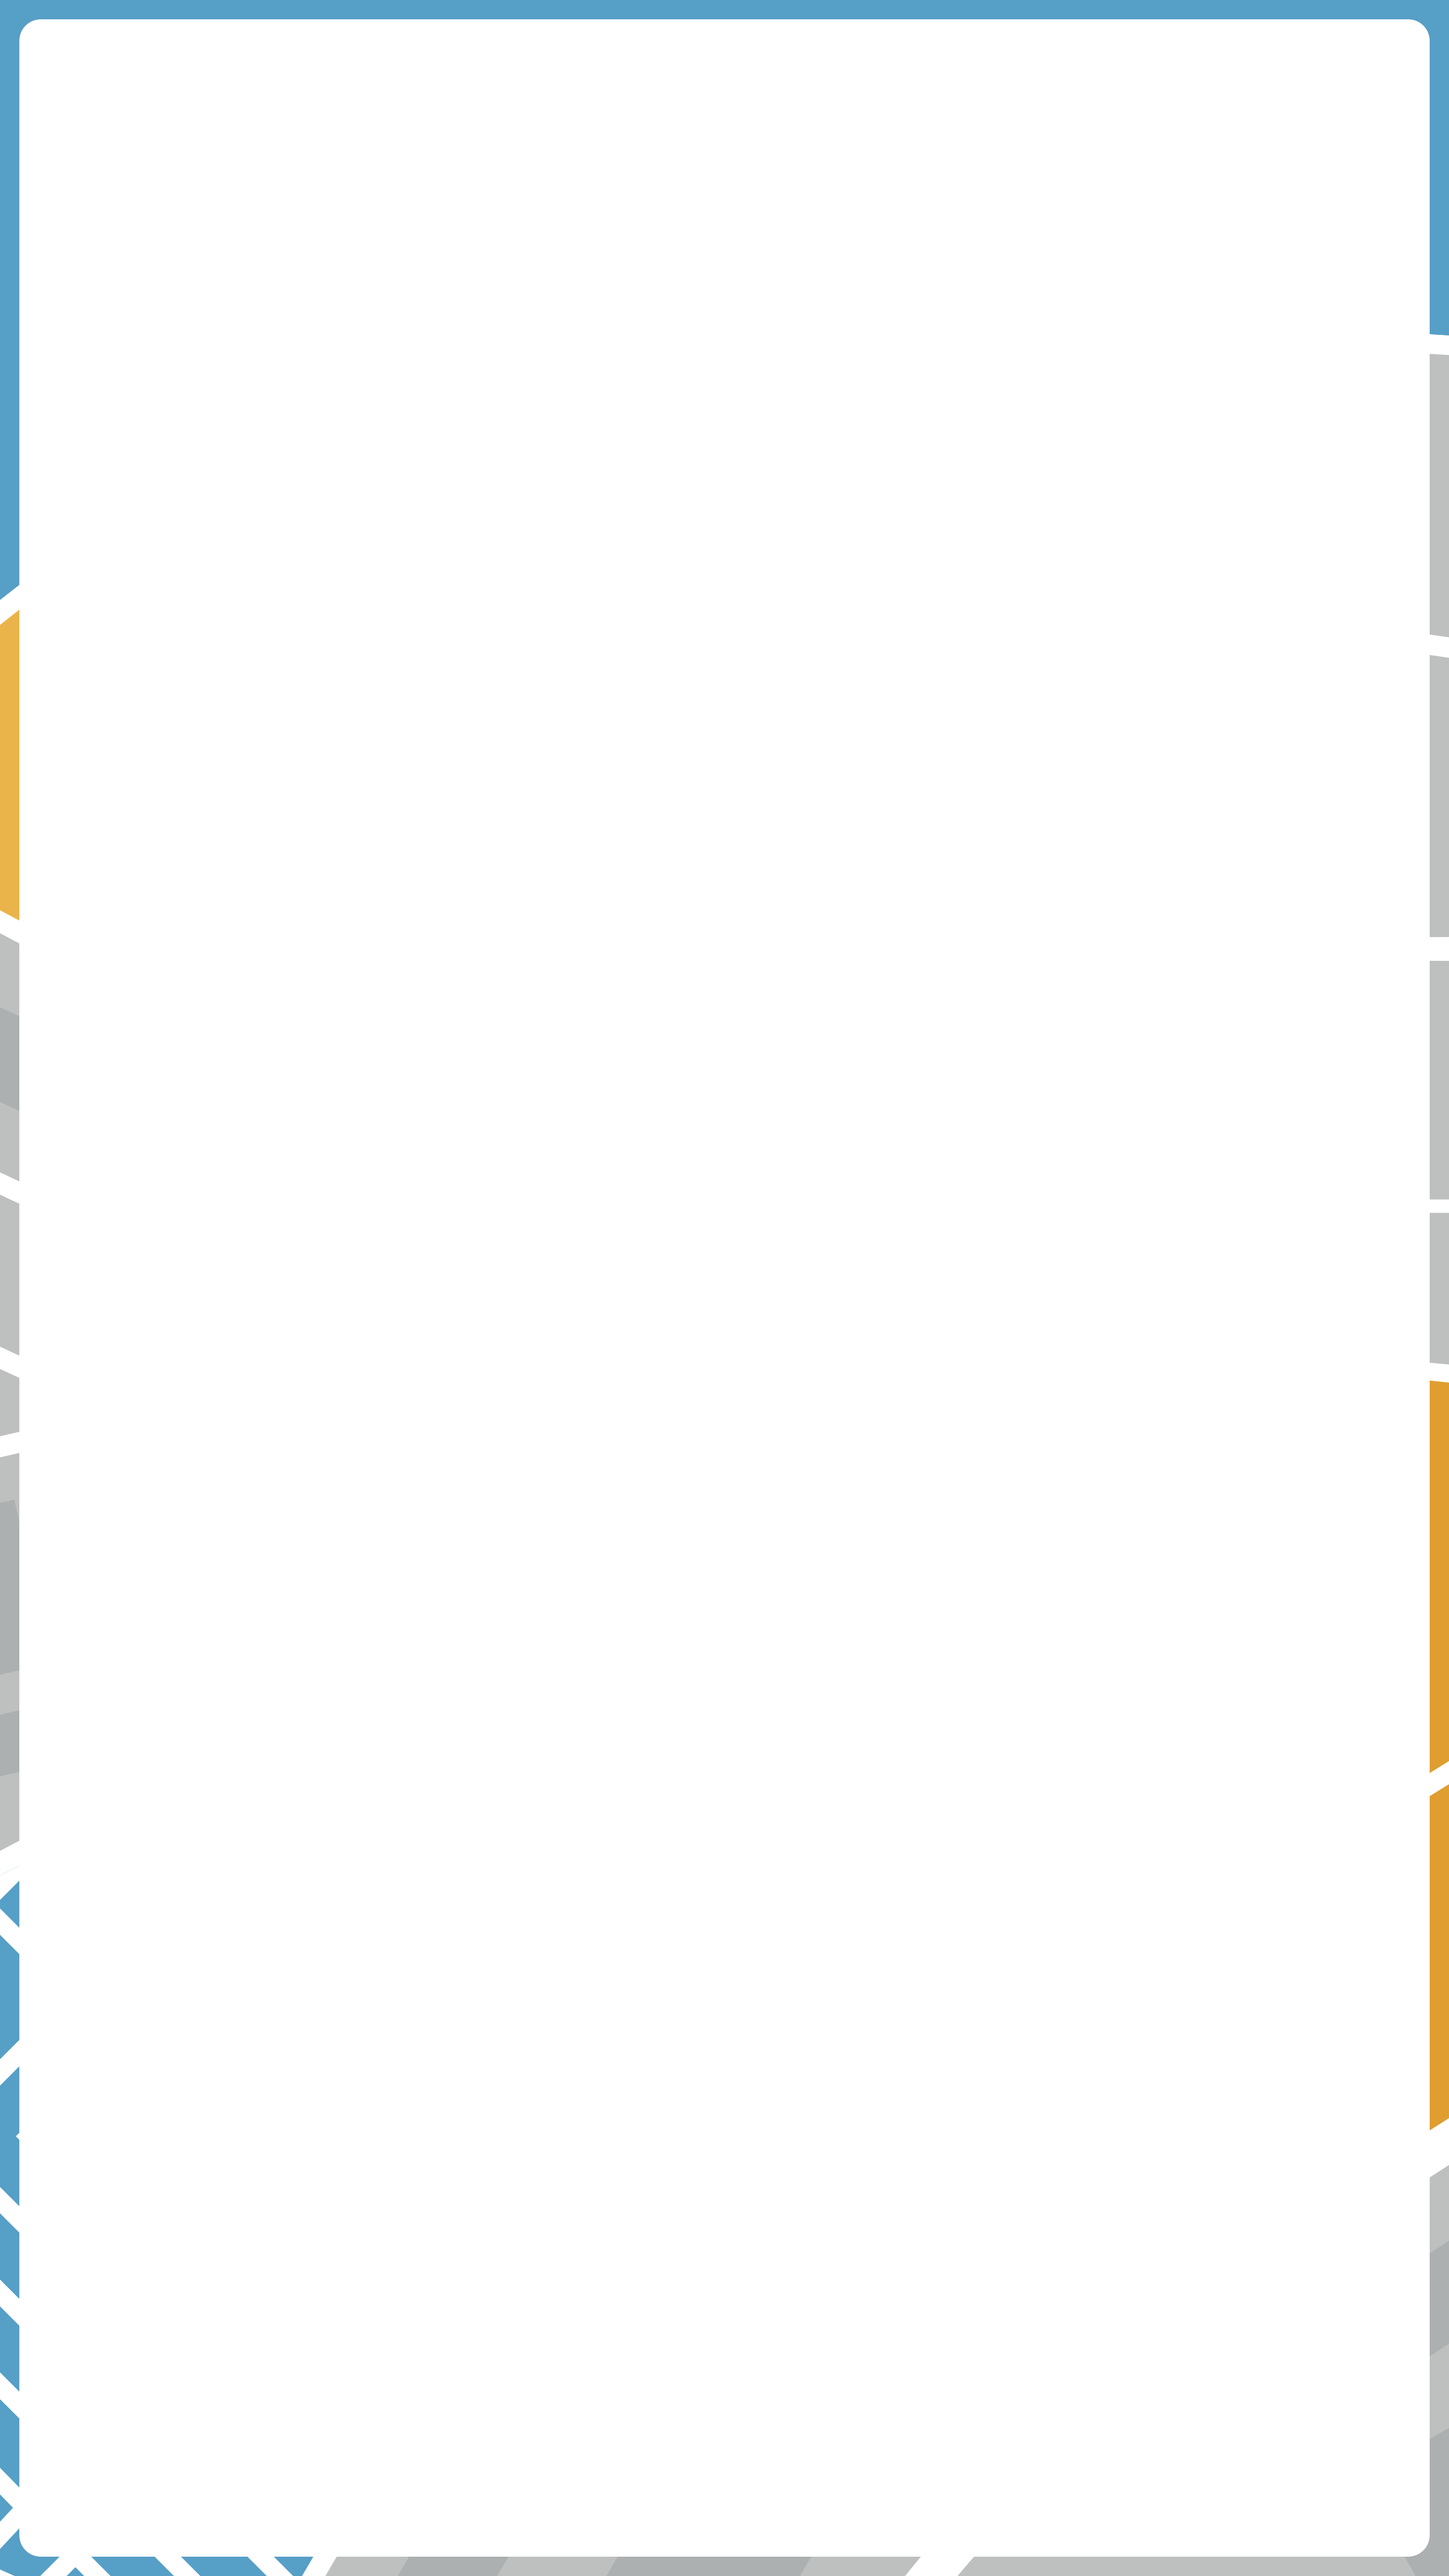
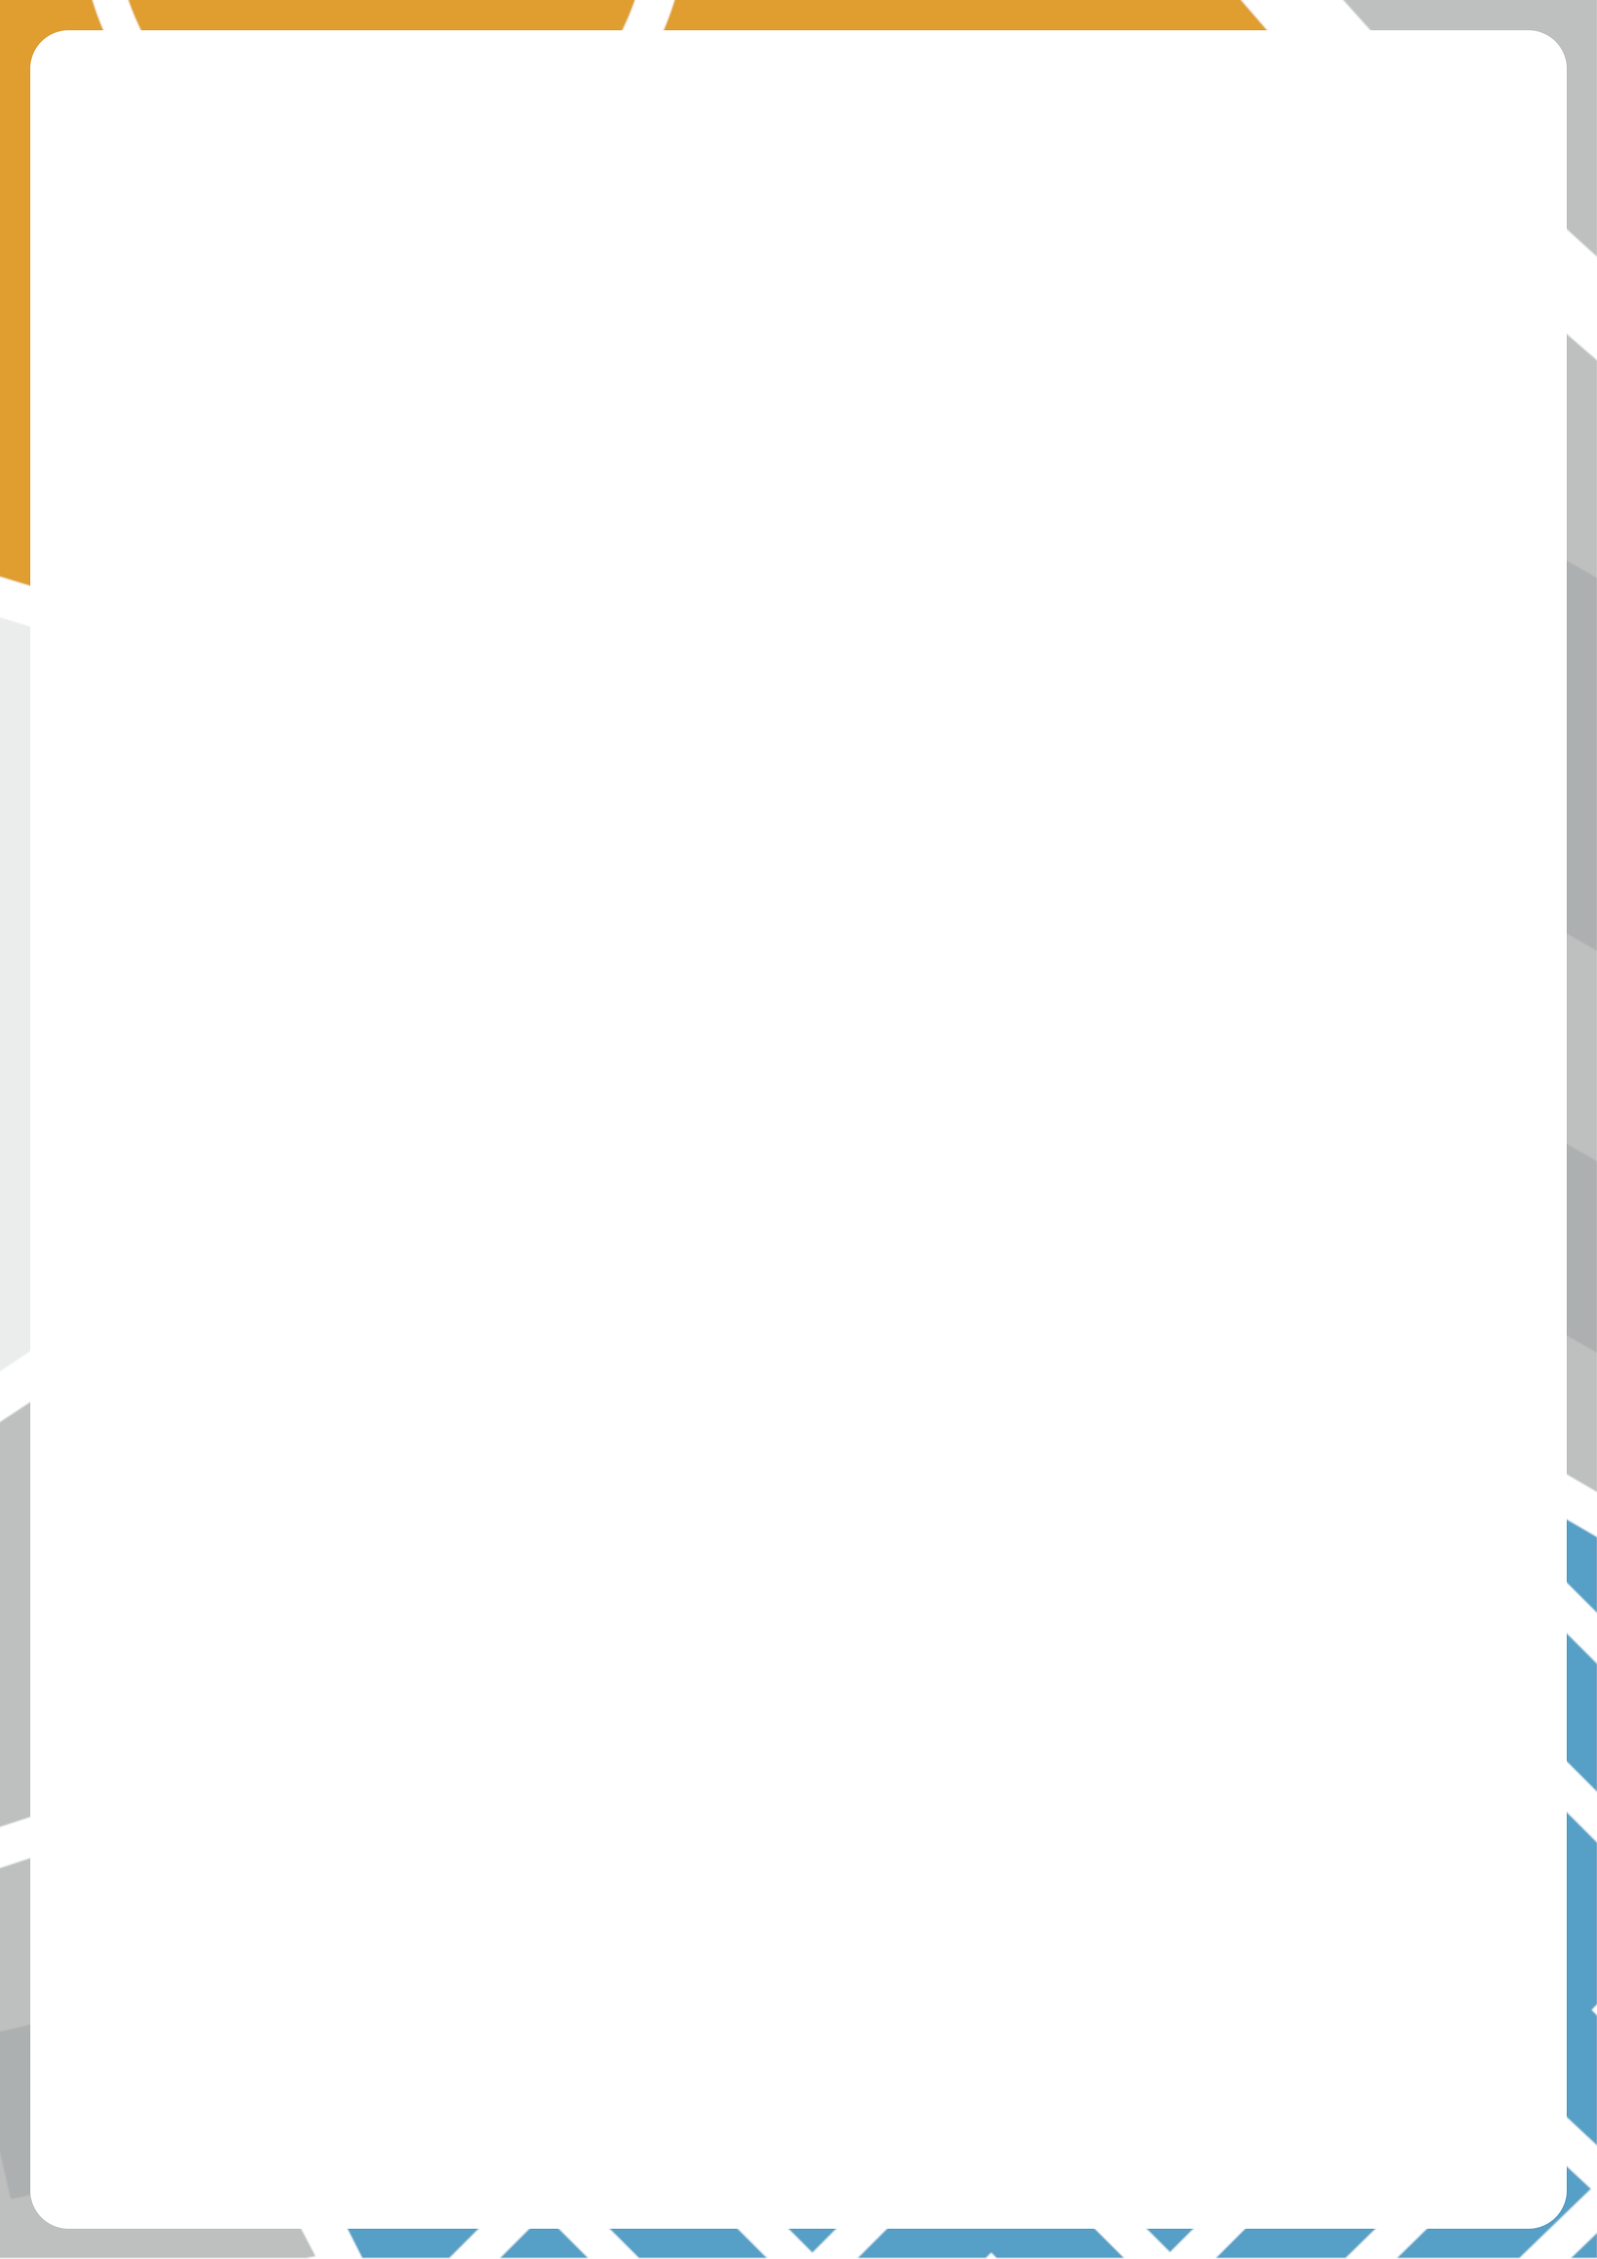
Updates to page layout

Changed region(s): [[0.0, 0.0, 1.0, 1.0]]

diff --git a/docs/css/extra.css b/docs/css/extra.css
@@ -4,7 +4,8 @@
 }
 @page {
     size: a4 portrait;
-    margin: 25mm 10mm 25mm 10mm;
+    margin: 0mm;
+    padding: 25mm 10mm 25mm 10mm;
     counter-increment: page;
     font-family: avenir;
     font-size: 8pt;
@@ -12,12 +13,12 @@
     color: grey;
     @bottom-right {
         content: 'Copyright © Kartoza';
+    	margin-top: -25mm;
+    	margin-right: 10mm;
     }
-    @top-center {
-        content: string(chapter);
-    }
-    @top-right {
+    @bottom-center{
         content: 'Page ' counter(page);
+    	margin-top: -25mm;
     }
 
 }
